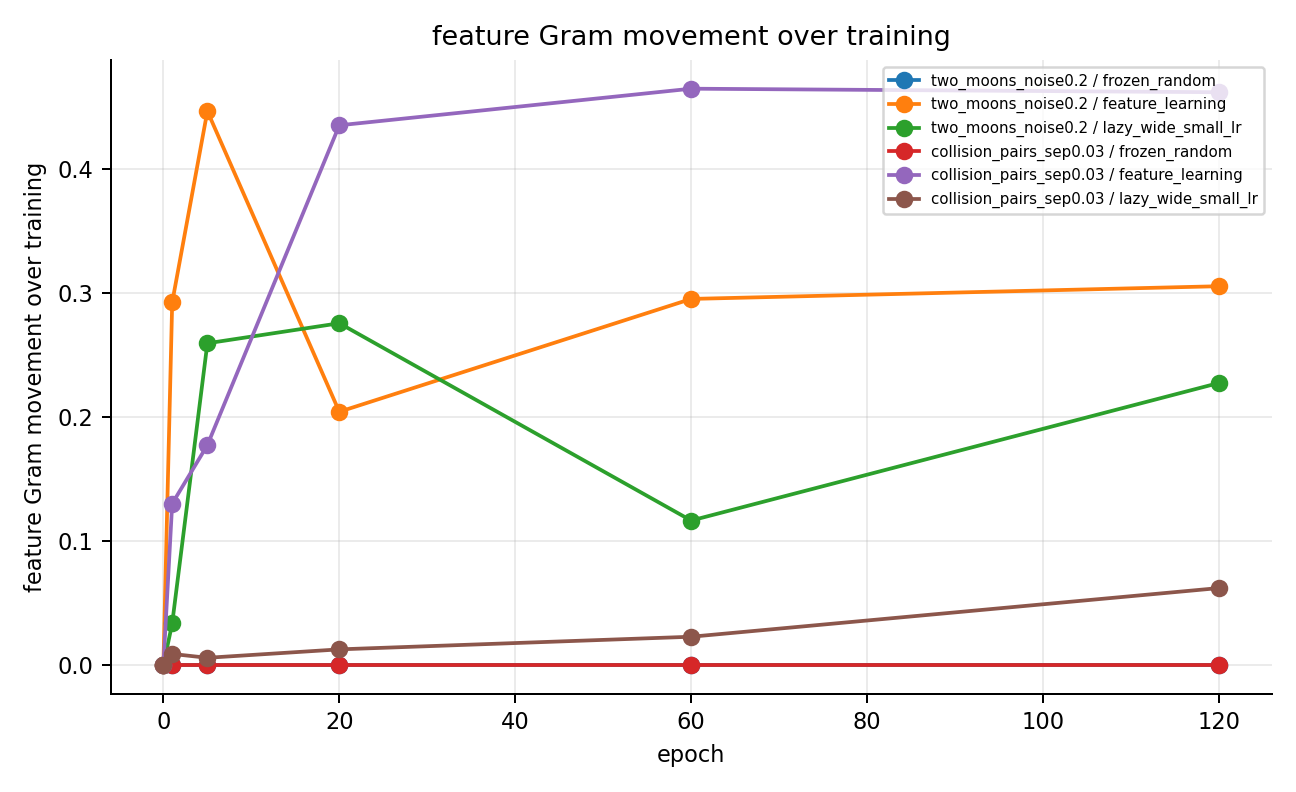
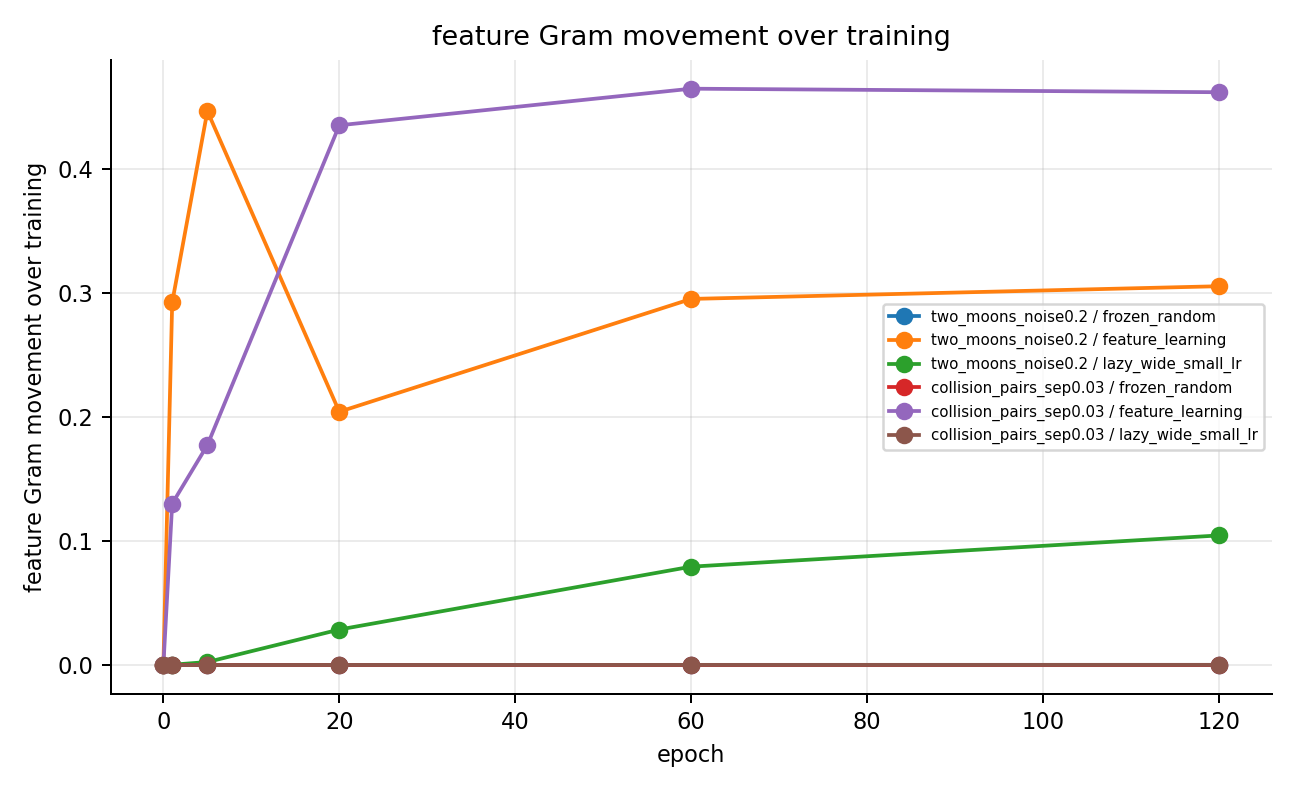
Tighten toy lazy feature dynamics control

diff --git a/experiments/002-feature-metric-dynamics/scripts/run_toy.py b/experiments/002-feature-metric-dynamics/scripts/run_toy.py
@@ -89,13 +89,24 @@ def train_regime(
     elif regime == "feature_learning":
         model = models.MLP(input_dim=train.x.shape[1], width=128, depth=2)
         lr = 1e-2
+        optimizer_kind = "adam"
     elif regime == "lazy_wide_small_lr":
-        model = models.MLP(input_dim=train.x.shape[1], width=512, depth=2)
-        lr = 5e-4
+        model = models.MLP(input_dim=train.x.shape[1], width=2048, depth=2)
+        lr = 5e-3
+        optimizer_kind = "sgd"
     else:
         raise ValueError(f"unknown regime: {regime}")
 
-    optimizer = torch.optim.Adam((p for p in model.parameters() if p.requires_grad), lr=lr)
+    if regime == "frozen_random":
+        optimizer_kind = "adam"
+
+    trainable_params = [p for p in model.parameters() if p.requires_grad]
+    if optimizer_kind == "adam":
+        optimizer = torch.optim.Adam(trainable_params, lr=lr)
+    elif optimizer_kind == "sgd":
+        optimizer = torch.optim.SGD(trainable_params, lr=lr)
+    else:
+        raise ValueError(f"unknown optimizer: {optimizer_kind}")
     loss_fn = nn.BCEWithLogitsLoss()
     checkpoints = sorted(set([0, 1, 5, 20, 60, epochs]))
 
@@ -166,6 +177,15 @@ def write_result_md(results: list[dict], command: str, out: Path) -> None:
         "",
         "Toy feature-metric dynamics completed for frozen random features, feature",
         "learning, and a lazy-ish wide/small-LR control.",
+        "",
+        "Interpretation checklist:",
+        "",
+        "- Feature learning should reduce tail/mixing on correctable metric-mismatch tasks.",
+        "- Frozen features should keep feature Gram movement at zero.",
+        "- The lazy-ish control now uses a wide MLP with SGD and small learning rate,",
+        "  so it should move the feature Gram much less than the feature-learning run.",
+        "- Synthetic opposite-label collision pairs are an intrinsic-ambiguity control:",
+        "  movement alone should not make them separable.",
         "",
         "| dataset | regime | tail@10% start | tail@10% final | mixing start | mixing final | movement final | train acc | test acc |",
         "| --- | --- | ---: | ---: | ---: | ---: | ---: | ---: | ---: |",

diff --git a/experiments/002-feature-metric-dynamics/result.md b/experiments/002-feature-metric-dynamics/result.md
@@ -9,28 +9,25 @@ Command: `python experiments/002-feature-metric-dynamics/scripts/run_toy.py --qu
 Toy feature-metric dynamics completed for frozen random features, feature
 learning, and a lazy-ish wide/small-LR control.
 
-Main observations:
+Interpretation:
 
-- On `two_moons_noise0.2`, feature learning moves the feature Gram matrix
-  (`movement=0.305`), lowers `tail@10%` from `0.082` to `0.053`, lowers
-  opposite-label kNN ratio from `0.044` to `0.028`, and improves train/test
-  accuracy.
-- On `collision_pairs_sep0.03`, feature learning moves the metric but does not
-  solve the task: tail remains near `1.0`, mixing remains near `0.55`, and
-  accuracy stays around chance. This is a useful negative control for intrinsic
-  contradictory local collisions.
-- The current lazy-ish control is not lazy enough: it still has nontrivial
-  feature Gram movement on two moons (`0.227`). The next version should use SGD,
-  smaller learning rate, and possibly wider networks.
+- On `two_moons_noise0.2`, feature learning reduces `tail@10%` from `0.082` to
+  `0.053`, lowers opposite-label kNN ratio from `0.044` to `0.028`, and reaches
+  `0.970` test accuracy.
+- The stricter lazy control now has much smaller feature movement than the
+  feature-learning run (`0.105` vs `0.305`) and does not reduce tail/mixing.
+- On `collision_pairs_sep0.03`, feature learning moves the feature Gram
+  (`0.462`) but leaves tail/mixing and accuracy essentially unchanged. This is a
+  good negative control for intrinsic contradictory local collisions.
 
 | dataset | regime | tail@10% start | tail@10% final | mixing start | mixing final | movement final | train acc | test acc |
 | --- | --- | ---: | ---: | ---: | ---: | ---: | ---: | ---: |
 | two_moons_noise0.2 | frozen_random | 0.085 | 0.085 | 0.050 | 0.050 | 0.000 | 0.887 | 0.917 |
 | two_moons_noise0.2 | feature_learning | 0.082 | 0.053 | 0.044 | 0.028 | 0.305 | 0.987 | 0.970 |
-| two_moons_noise0.2 | lazy_wide_small_lr | 0.076 | 0.071 | 0.049 | 0.031 | 0.227 | 0.987 | 0.977 |
+| two_moons_noise0.2 | lazy_wide_small_lr | 0.079 | 0.080 | 0.048 | 0.049 | 0.105 | 0.870 | 0.890 |
 | collision_pairs_sep0.03 | frozen_random | 0.999 | 0.999 | 0.547 | 0.547 | 0.000 | 0.507 | 0.507 |
 | collision_pairs_sep0.03 | feature_learning | 1.000 | 0.997 | 0.548 | 0.550 | 0.462 | 0.517 | 0.500 |
-| collision_pairs_sep0.03 | lazy_wide_small_lr | 1.000 | 0.995 | 0.553 | 0.550 | 0.062 | 0.530 | 0.497 |
+| collision_pairs_sep0.03 | lazy_wide_small_lr | 1.000 | 1.000 | 0.552 | 0.552 | 0.000 | 0.510 | 0.507 |
 
 ## Artifacts
 

diff --git a/progress.md b/progress.md
@@ -32,8 +32,9 @@
   - on synthetic opposite-label collision pairs, feature learning moved the
     metric but did not reduce tail/mixing or improve accuracy, supporting the
     intrinsic-ambiguity stress-test direction;
-  - lazy-ish control is not strict enough yet because feature Gram movement is
-    nontrivial.
+- Re-ran `002-feature-metric-dynamics` with a stricter lazy control (wide MLP +
+  SGD small LR): two-moons lazy feature movement dropped to `0.105`, while
+  collision-pair lazy movement is near zero (`0.0002`).
 - Push is not available until a remote is configured.
 
 ## Current Framing

diff --git a/todo.md b/todo.md
@@ -41,7 +41,7 @@
 - [ ] `001-spectral-tail-diagnostics`: theorem-bound audit for collision lower bounds.
 - [x] `002-feature-metric-dynamics`: toy quick run tracking feature Gram,
   `T_y^{K_t}(m)`, collisions, alignment, margin.
-- [ ] `002-feature-metric-dynamics`: replace lazy-ish control with stricter SGD
+- [x] `002-feature-metric-dynamics`: replace lazy-ish control with stricter SGD
   small-LR/wider lazy control.
 - [ ] `002-feature-metric-dynamics`: MNIST run tracking `K_t`,
   `T_y^{K_t}(m)`, collisions, alignment, margin.